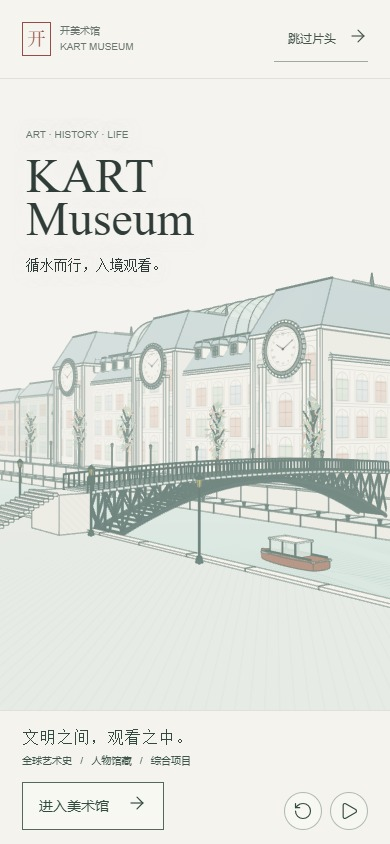
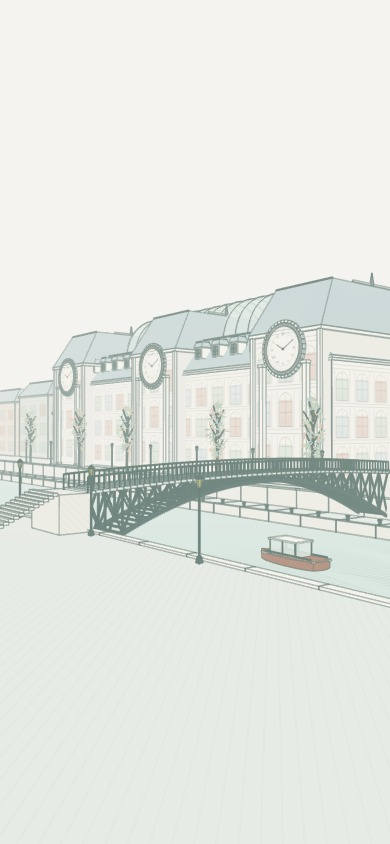
Fix duplicated intro artwork and titles during loading and fallback

diff --git a/index.html b/index.html
@@ -9,8 +9,8 @@
       document.documentElement.dataset.kartIntro = location.hash === '#intro' || (!location.hash && !sessionStorage.getItem('kart-prologue-seen')) ? 'show' : 'hide';
     } catch (_) { document.documentElement.dataset.kartIntro = !location.hash || location.hash === '#intro' ? 'show' : 'hide'; }
   </script>
-  <link rel="stylesheet" href="assets/intro/intro.css?v=ink20261028">
-  <script src="assets/intro/intro.js?v=ink20261028" defer></script>
+  <link rel="stylesheet" href="assets/intro/intro.css?v=ink20261028-clean">
+  <script src="assets/intro/intro.js?v=ink20261028-clean" defer></script>
   <link rel="image_src" href="https://tonyzhouacademy-png.github.io/KART_Museum/assets/social/kart-museum-wechat.jpg?v=20260728-1">
   <meta itemprop="image" content="https://tonyzhouacademy-png.github.io/KART_Museum/assets/social/kart-museum-wechat.jpg?v=20260728-1">
   <meta name="description" content="KART Museum：全球艺术史、成员档案、写生与综合项目的长期成长馆藏。">
@@ -1279,8 +1279,8 @@
 <body>
   <section class="museum-prologue" role="dialog" aria-modal="true" aria-labelledby="prologue-title">
     <picture>
-      <source media="(max-width: 760px)" srcset="assets/intro/waterway-poster-mobile.jpg?v=ink20261028">
-      <img class="prologue-poster" src="assets/intro/waterway-poster.jpg?v=ink20261028" alt="淡彩线描中的滨水美术馆、铁桥与城市轮廓" width="1440" height="900" loading="lazy">
+      <source media="(max-width: 760px)" srcset="assets/intro/waterway-poster-mobile.jpg?v=ink20261028-clean">
+      <img class="prologue-poster" src="assets/intro/waterway-poster.jpg?v=ink20261028-clean" alt="淡彩线描中的滨水美术馆、铁桥与城市轮廓" width="1440" height="900" loading="lazy">
     </picture>
     <div class="prologue-scene"></div>
     <div class="prologue-top">

diff --git a/assets/intro/intro.css b/assets/intro/intro.css
@@ -16,8 +16,10 @@ html[data-kart-intro="show"] body > :not(.museum-prologue):not(script) { display
 .museum-prologue[hidden], html[data-kart-intro="hide"] .museum-prologue { display: none; }
 .prologue-scene, .prologue-poster, .prologue-scene canvas { position: absolute; inset: 0; width: 100%; height: 100%; }
 .prologue-poster { object-fit: cover; }
-.prologue-scene { opacity: 0; transition: opacity 1.2s; }
+.prologue-scene { opacity: 0; }
 .museum-prologue[data-ready="true"] .prologue-scene { opacity: 1; }
+.museum-prologue[data-ready="true"]:not([data-fallback="true"]) .prologue-poster { visibility: hidden; }
+.museum-prologue[data-fallback="true"] .prologue-scene { opacity: 0; }
 .prologue-top {
   position: absolute; top: 0; left: 0; right: 0; padding: 18px 4%;
   display: flex; align-items: center; justify-content: space-between; gap: 16px;
